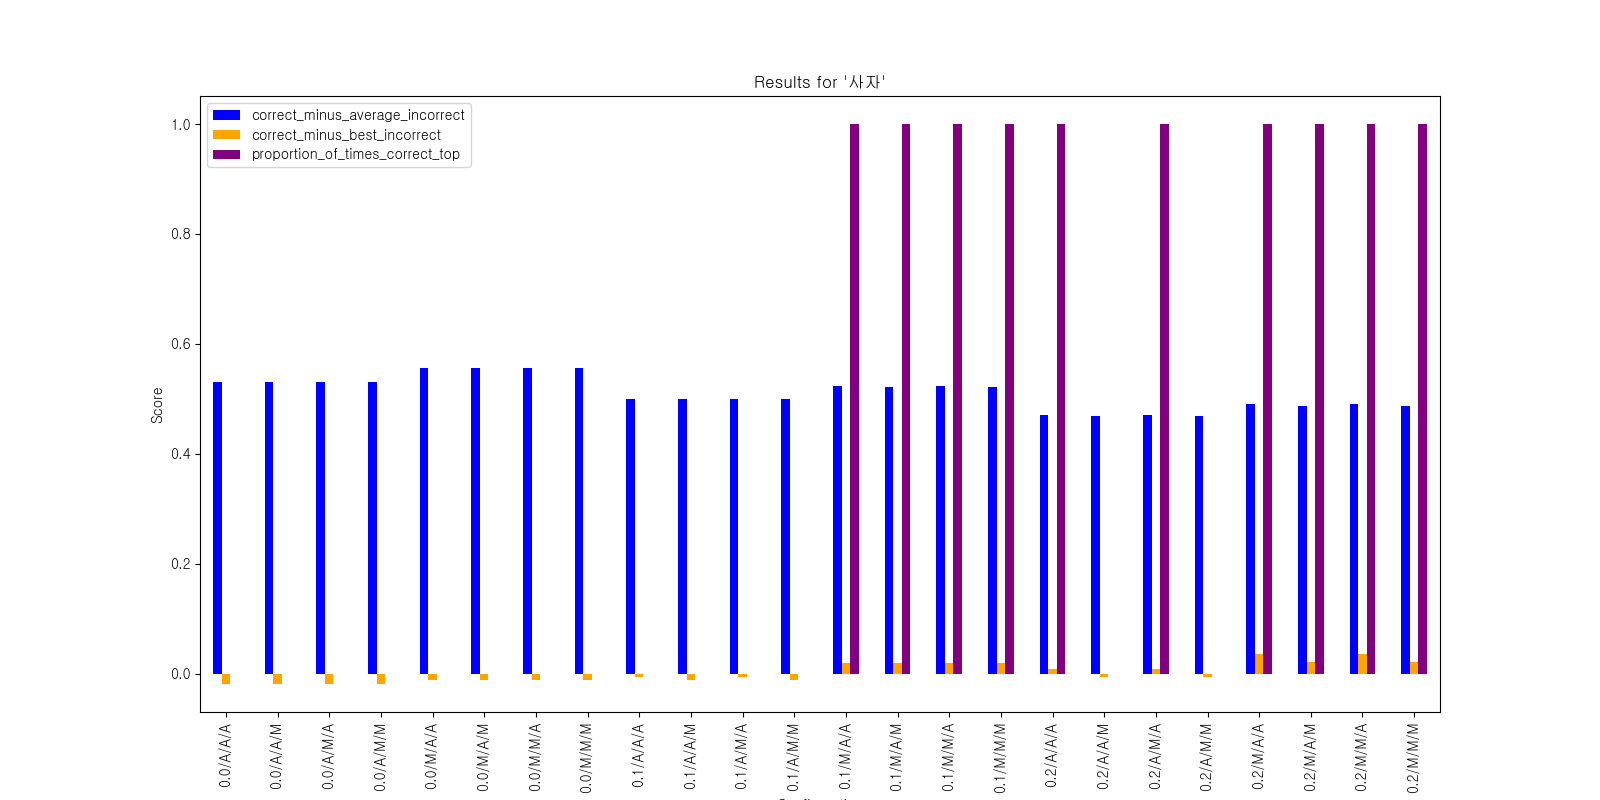
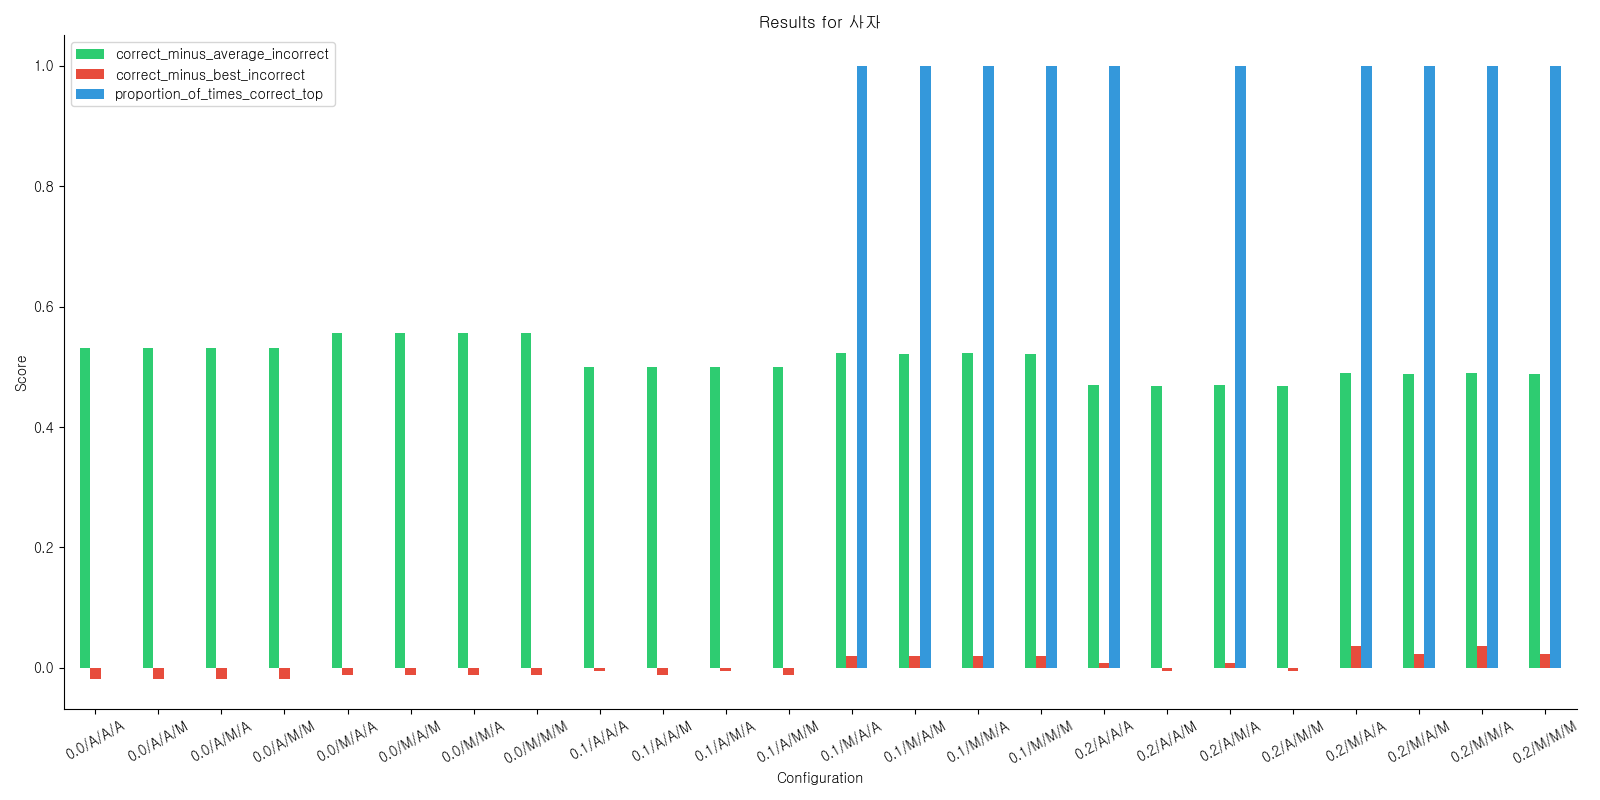
improved appearance of graphs

diff --git a/write_result_files.py b/write_result_files.py
@@ -39,16 +39,27 @@ def write_all_lemma_files(df: pd.DataFrame, path_to_dir: str):
             ]
         ].mean()
 
-        data_for_lemma_df.plot(
-            kind="bar",
-            title=f"Results for '{lemma}'",
-            color=["blue", "orange", "purple"],
-            xlabel="Configuration",
-            ylabel="Score",
-            figsize=(16, 8),
-        )
+        do_plot(data_for_lemma_df, f"Results for {lemma}")
+
         plt.savefig(f"{path_to_dir}/lemmas/{lemma}.png")
         plt.close()
+
+
+def do_plot(df, title: str):
+    df.plot(
+        kind="bar",
+        title=title,
+        color=["#2ecc71", "#e74c3c", "#3498db"],
+        xlabel="Configuration",
+        ylabel="Score",
+        figsize=(16, 8),
+        rot=30,
+    )
+
+    plt.gca().spines["top"].set_visible(False)
+    plt.gca().spines["right"].set_visible(False)
+
+    plt.tight_layout()
 
 
 def combine_config_columns(df: pd.DataFrame):
@@ -107,14 +118,7 @@ def write_aggregated_file(df: pd.DataFrame, path_to_dir: str):
         ]
     ].mean()
 
-    aggregated_df.plot(
-        kind="bar",
-        title="Aggregated Results",
-        color=["blue", "orange", "purple"],
-        xlabel="Configuration",
-        ylabel="Values",
-        figsize=(16, 8),
-    )
+    do_plot(aggregated_df, "Aggregated Results")
 
     plt.savefig(f"{path_to_dir}/aggregated.png")
     plt.close()
